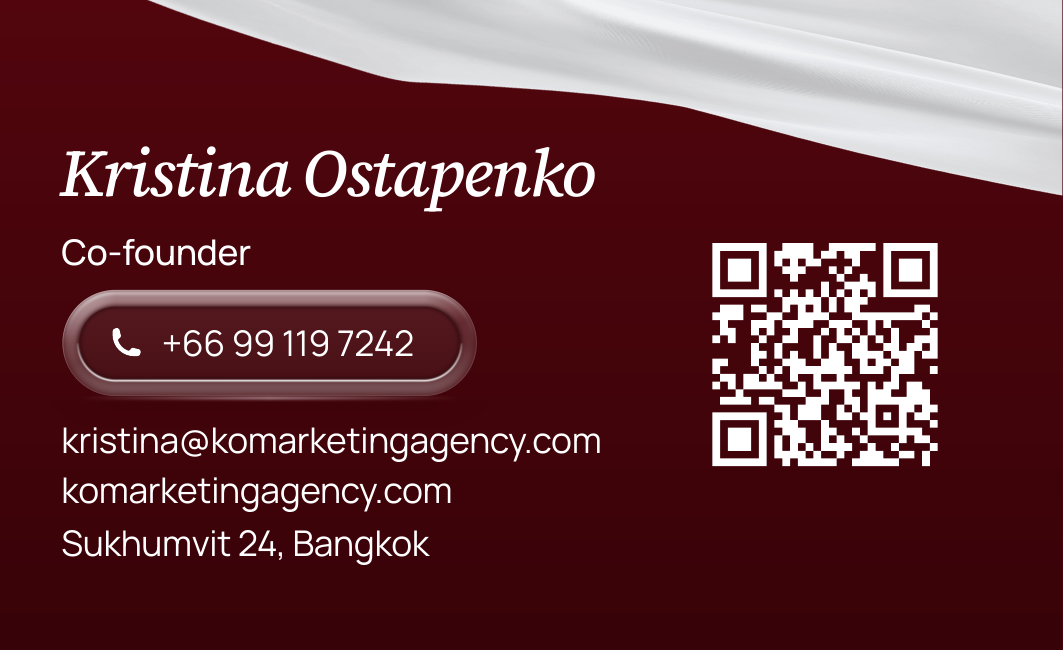
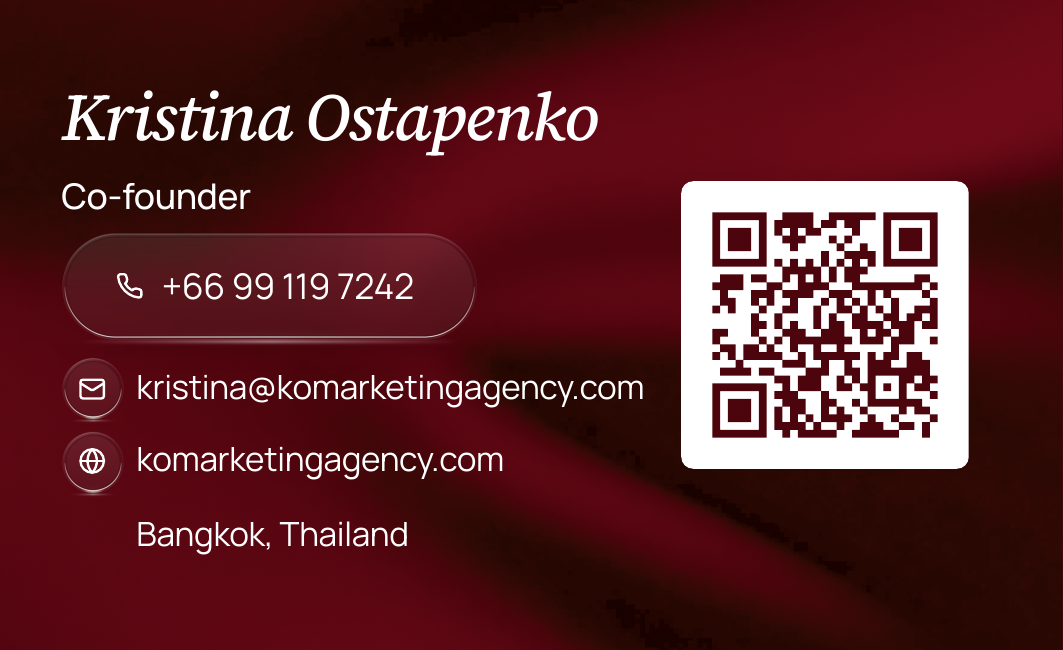
Put the QR on a white tile with burgundy modules.
The symbol stays 24.2 mm and centered with the left column. A solid white rounded tile fills its 4-module quiet zone, and the modules are #4C050C. The tile's right edge is 8.1 mm inside the trim.

diff --git a/brand/business-cards/cards.html b/brand/business-cards/cards.html
@@ -13,7 +13,7 @@
     icons sit in matching circular glass badges, also baked. The left column
     is one group: its cap line and the address descender are equally inset
     from the 55 mm trim, and the QR is centered on that same axis. The QR is
-    white modules on the satin.
+    burgundy modules on an opaque white tile with a 1 mm corner radius.
     Logo, type, icon, and QR are vectors. No opacity, masks, or blend modes.
   -->
   <style>

diff --git a/brand/business-cards/build_assets.py b/brand/business-cards/build_assets.py
@@ -16,8 +16,11 @@ ASSETS = ROOT / "assets"
 DPI = int(os.environ.get("CARD_DPI", "600"))
 
 # Millimetres from the bleed origin. cards.html uses the same numbers.
-# The symbol includes a 4-module quiet zone. It sits on the satin ground.
+# The symbol includes a 4-module quiet zone. A white tile fills that zone;
+# the modules are logo burgundy. Bleed millimetres.
 QR_SYMBOL = (60.7, 18.465, 24.2, 24.2)
+QR_QUIET_MODULES = 4
+QR_TILE_RADIUS = 1.0
 # Front. Bleed coordinates. The wordmark is 56 mm wide and centered. The tagline stays lower left.
 FRONT_LOGO = (20.0, 23.94, 56.0, 13.13)
 FRONT_TAG = (13.0, 47.05, 17.6, 6.0)
@@ -618,8 +621,14 @@ def trace_wordmark():
 
 
 def build_qr_svg():
+    """Burgundy modules on an opaque white tile.
+
+    The tile is the symbol box. Its 4-module margin is the quiet zone, which
+    is more than the 2 modules required. The corner radius is 1 mm at the
+    placed size. Both fills are solid: no opacity, mask, or blend.
+    """
     qr = segno.make("https://komarketingagency.com", error="q")
-    modules = list(qr.matrix_iter(scale=1, border=4))
+    modules = list(qr.matrix_iter(scale=1, border=QR_QUIET_MODULES))
     n = len(modules)
     parts = []
     for yy, row in enumerate(modules):
@@ -633,11 +642,12 @@ def build_qr_svg():
                 x1 += 1
             parts.append(f"M{x} {yy}h{x1 - x}v1h-{x1 - x}z")
             x = x1
-    # Inverted: white modules, no plate. The 4-module border is the burgundy ground.
+    radius = QR_TILE_RADIUS / (QR_SYMBOL[2] / n)
     svg = (
         f'<svg xmlns="http://www.w3.org/2000/svg" viewBox="0 0 {n} {n}" '
         f'width="{n}" height="{n}">'
-        f'<path fill="#ffffff" d="{"".join(parts)}"/>'
+        f'<rect width="{n}" height="{n}" rx="{radius:.4f}" ry="{radius:.4f}" fill="#ffffff"/>'
+        f'<path fill="#4c050c" d="{"".join(parts)}"/>'
         f"</svg>"
     )
     (ASSETS / "qr.svg").write_text(svg)
@@ -740,12 +750,21 @@ def main():
     trace_wordmark()
     n = build_qr_svg()
     module = QR_SYMBOL[2] / n
-    quiet = 4 * module
+    quiet = QR_QUIET_MODULES * module
     sx, sy, ss, _ = QR_SYMBOL
     data_box = (sx + quiet, sy + quiet, ss - 2 * quiet, ss - 2 * quiet)
-    # White modules on burgundy. The worst pixel is the lightest ground under them.
-    contrast_in(back, data_box, "under the QR")
-    contrast_in(back, QR_SYMBOL, "QR quiet zone")
+    # Trim is 3 mm inside the bleed. The tile must stay 3 mm clear of that edge.
+    tile_right = sx + ss
+    trim_right = 93.0
+    clearance = trim_right - tile_right
+    print(
+        f"qr tile {ss:.2f}mm quiet {QR_QUIET_MODULES} modules ({quiet:.2f}mm) "
+        f"radius {QR_TILE_RADIUS:.2f}mm right clearance {clearance:.2f}mm"
+    )
+    if QR_QUIET_MODULES < 2:
+        raise SystemExit("QR quiet zone is under 2 modules")
+    if clearance < 3.0:
+        raise SystemExit(f"QR tile is {clearance:.2f}mm from the trim, under the 3 mm safe zone")
     measure_cloth(back)
     save_rgb(ASSETS / "back-bg.png", back)
     data_mm = data_box[2]
